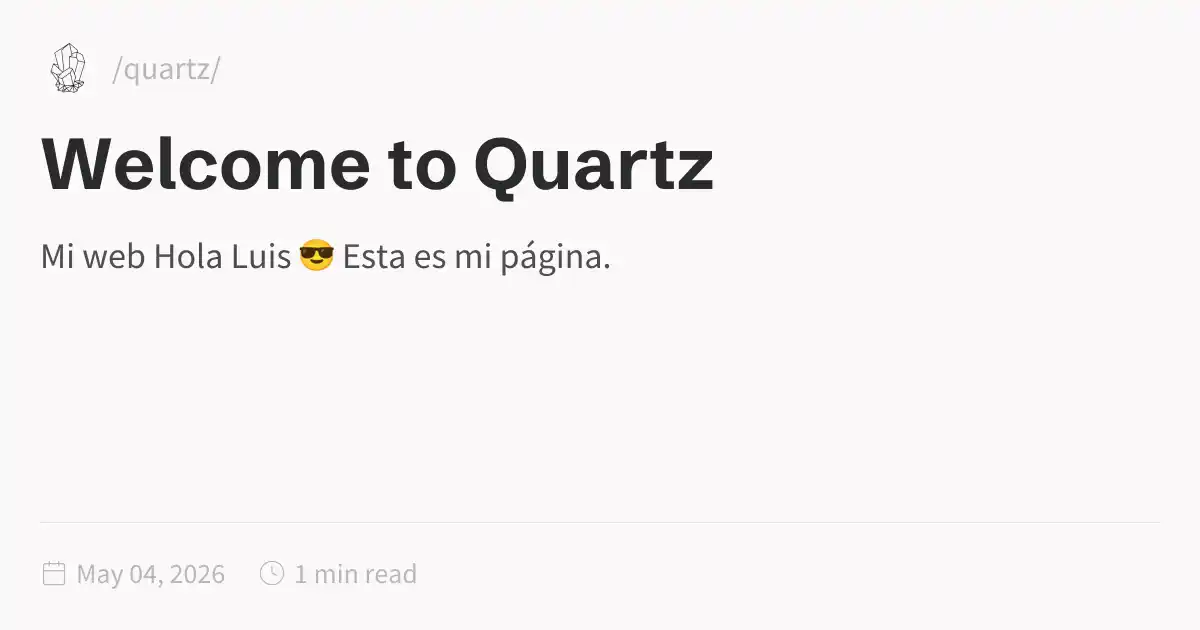
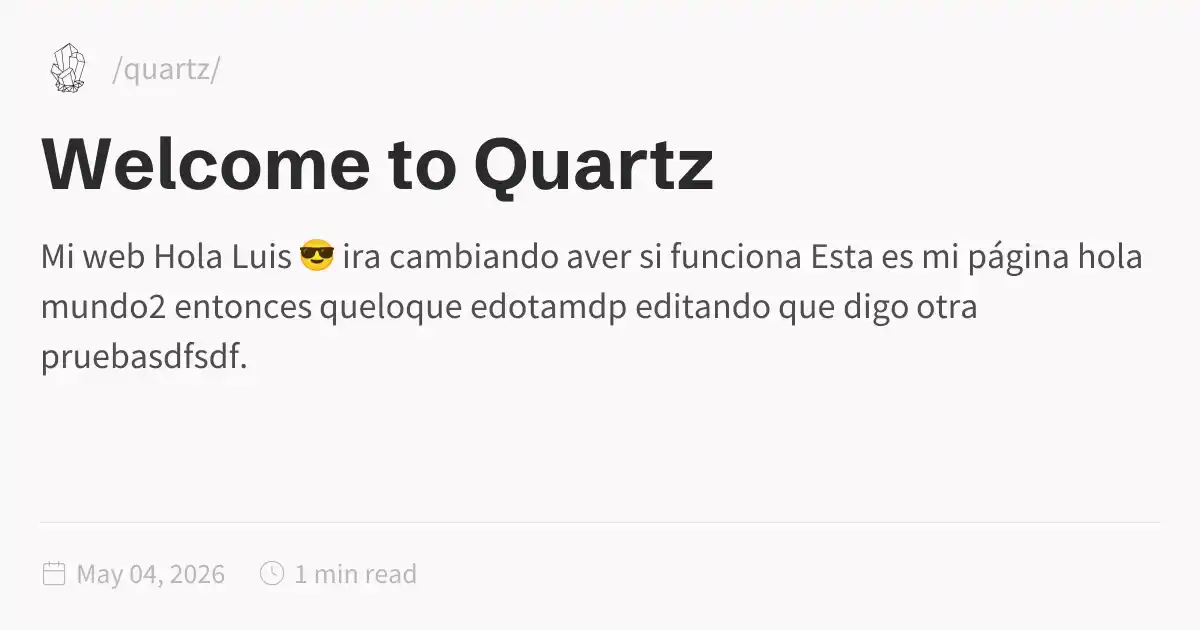
test

Changed region(s): [[0.0308, 0.3921, 0.9558, 0.5127], [0.0308, 0.5429, 0.2158, 0.6032], [0.0617, 0.3921, 0.1233, 0.4222]]

diff --git a/docs/index.html b/docs/index.html
@@ -1,5 +1,5 @@
 <!DOCTYPE html>
-<html lang="en" dir="ltr"><head><title>Welcome to Quartz</title><meta charset="utf-8"/><link rel="preconnect" href="https://fonts.googleapis.com"/><link rel="preconnect" href="https://fonts.gstatic.com"/><link rel="stylesheet" href="https://fonts.googleapis.com/css2?family=Schibsted Grotesk:wght@400;700&amp;family=Source Sans Pro:ital,wght@0,400;0,600;1,400;1,600&amp;family=IBM Plex Mono:wght@400;600&amp;display=swap"/><link rel="preconnect" href="https://cdnjs.cloudflare.com" crossorigin="anonymous"/><meta name="viewport" content="width=device-width, initial-scale=1.0"/><meta name="og:site_name" content="Quartz 4"/><meta property="og:title" content="Welcome to Quartz"/><meta property="og:type" content="website"/><meta name="twitter:card" content="summary_large_image"/><meta name="twitter:title" content="Welcome to Quartz"/><meta name="twitter:description" content="Mi web Hola Luis 😎 Esta es mi página."/><meta property="og:description" content="Mi web Hola Luis 😎 Esta es mi página."/><meta property="og:image:alt" content="Mi web Hola Luis 😎 Esta es mi página."/><meta property="twitter:domain" content="/quartz/"/><meta property="og:url" content="https://quartz/index"/><meta property="twitter:url" content="https://quartz/index"/><link rel="icon" href="./static/icon.png"/><meta name="description" content="Mi web Hola Luis 😎 Esta es mi página."/><meta name="generator" content="Quartz"/><link href="./index.css" rel="stylesheet" type="text/css" data-persist="true"/><style>.expand-button {
+<html lang="en" dir="ltr"><head><title>Welcome to Quartz</title><meta charset="utf-8"/><link rel="preconnect" href="https://fonts.googleapis.com"/><link rel="preconnect" href="https://fonts.gstatic.com"/><link rel="stylesheet" href="https://fonts.googleapis.com/css2?family=Schibsted Grotesk:wght@400;700&amp;family=Source Sans Pro:ital,wght@0,400;0,600;1,400;1,600&amp;family=IBM Plex Mono:wght@400;600&amp;display=swap"/><link rel="preconnect" href="https://cdnjs.cloudflare.com" crossorigin="anonymous"/><meta name="viewport" content="width=device-width, initial-scale=1.0"/><meta name="og:site_name" content="Quartz 4"/><meta property="og:title" content="Welcome to Quartz"/><meta property="og:type" content="website"/><meta name="twitter:card" content="summary_large_image"/><meta name="twitter:title" content="Welcome to Quartz"/><meta name="twitter:description" content="Mi web Hola Luis 😎 ira cambiando aver si funciona Esta es mi página hola mundo2 entonces queloque edotamdp editando que digo otra pruebasdfsdf."/><meta property="og:description" content="Mi web Hola Luis 😎 ira cambiando aver si funciona Esta es mi página hola mundo2 entonces queloque edotamdp editando que digo otra pruebasdfsdf."/><meta property="og:image:alt" content="Mi web Hola Luis 😎 ira cambiando aver si funciona Esta es mi página hola mundo2 entonces queloque edotamdp editando que digo otra pruebasdfsdf."/><meta property="twitter:domain" content="/quartz/"/><meta property="og:url" content="https://quartz/index"/><meta property="twitter:url" content="https://quartz/index"/><link rel="icon" href="./static/icon.png"/><meta name="description" content="Mi web Hola Luis 😎 ira cambiando aver si funciona Esta es mi página hola mundo2 entonces queloque edotamdp editando que digo otra pruebasdfsdf."/><meta name="generator" content="Quartz"/><link href="./index.css" rel="stylesheet" type="text/css" data-persist="true"/><style>.expand-button {
   position: absolute;
   display: flex;
   float: right;
@@ -116,8 +116,12 @@ pre:hover > .expand-button {
   font-size: 14px;
 }
[1 lines of base64/hex data omitted]
-<p>Hola Luis 😎<br/>
-Esta es mi página</p></article><hr/><div class="page-footer"></div></div><div class="right sidebar"><div class="graph"><h3>Graph View</h3><div class="graph-outer"><div class="graph-container" data-cfg="{&quot;drag&quot;:true,&quot;zoom&quot;:true,&quot;depth&quot;:1,&quot;scale&quot;:1.1,&quot;repelForce&quot;:0.5,&quot;centerForce&quot;:0.3,&quot;linkDistance&quot;:30,&quot;fontSize&quot;:0.6,&quot;opacityScale&quot;:1,&quot;showTags&quot;:true,&quot;removeTags&quot;:[],&quot;focusOnHover&quot;:false,&quot;enableRadial&quot;:false}"></div><button class="global-graph-icon" aria-label="Global Graph"><svg version="1.1" xmlns="http://www.w3.org/2000/svg" xmlns:xlink="http://www.w3.org/1999/xlink" x="0px" y="0px" viewBox="0 0 55 55" fill="currentColor" xml:space="preserve"><path d="M49,0c-3.309,0-6,2.691-6,6c0,1.035,0.263,2.009,0.726,2.86l-9.829,9.829C32.542,17.634,30.846,17,29,17
+<p>Hola Luis 😎  ira cambiando aver si funciona
+Esta es mi página</p>
+<p>hola mundo2
+entonces queloque
+edotamdp editando que digo
+otra pruebasdfsdf</p></article><hr/><div class="page-footer"></div></div><div class="right sidebar"><div class="graph"><h3>Graph View</h3><div class="graph-outer"><div class="graph-container" data-cfg="{&quot;drag&quot;:true,&quot;zoom&quot;:true,&quot;depth&quot;:1,&quot;scale&quot;:1.1,&quot;repelForce&quot;:0.5,&quot;centerForce&quot;:0.3,&quot;linkDistance&quot;:30,&quot;fontSize&quot;:0.6,&quot;opacityScale&quot;:1,&quot;showTags&quot;:true,&quot;removeTags&quot;:[],&quot;focusOnHover&quot;:false,&quot;enableRadial&quot;:false}"></div><button class="global-graph-icon" aria-label="Global Graph"><svg version="1.1" xmlns="http://www.w3.org/2000/svg" xmlns:xlink="http://www.w3.org/1999/xlink" x="0px" y="0px" viewBox="0 0 55 55" fill="currentColor" xml:space="preserve"><path d="M49,0c-3.309,0-6,2.691-6,6c0,1.035,0.263,2.009,0.726,2.86l-9.829,9.829C32.542,17.634,30.846,17,29,17
                 s-3.542,0.634-4.898,1.688l-7.669-7.669C16.785,10.424,17,9.74,17,9c0-2.206-1.794-4-4-4S9,6.794,9,9s1.794,4,4,4
                 c0.74,0,1.424-0.215,2.019-0.567l7.669,7.669C21.634,21.458,21,23.154,21,25s0.634,3.542,1.688,4.897L10.024,42.562
                 C8.958,41.595,7.549,41,6,41c-3.309,0-6,2.691-6,6s2.691,6,6,6s6-2.691,6-6c0-1.035-0.263-2.009-0.726-2.86l12.829-12.829

diff --git a/content/index.md b/content/index.md
@@ -3,5 +3,17 @@ title: Welcome to Quartz
 ---
 # Mi web
 
-Hola Luis 😎  
+Hola Luis 😎  ira cambiando aver si funciona
 Esta es mi página
+
+hola mundo2
+entonces queloque
+edotamdp editando que digo
+otra pruebasdfsdf
+
+sdf ashefiush
+sfs
+sdfsjdlfk
+
+CAMBIO FINAL 🔥🔥🔥
+final